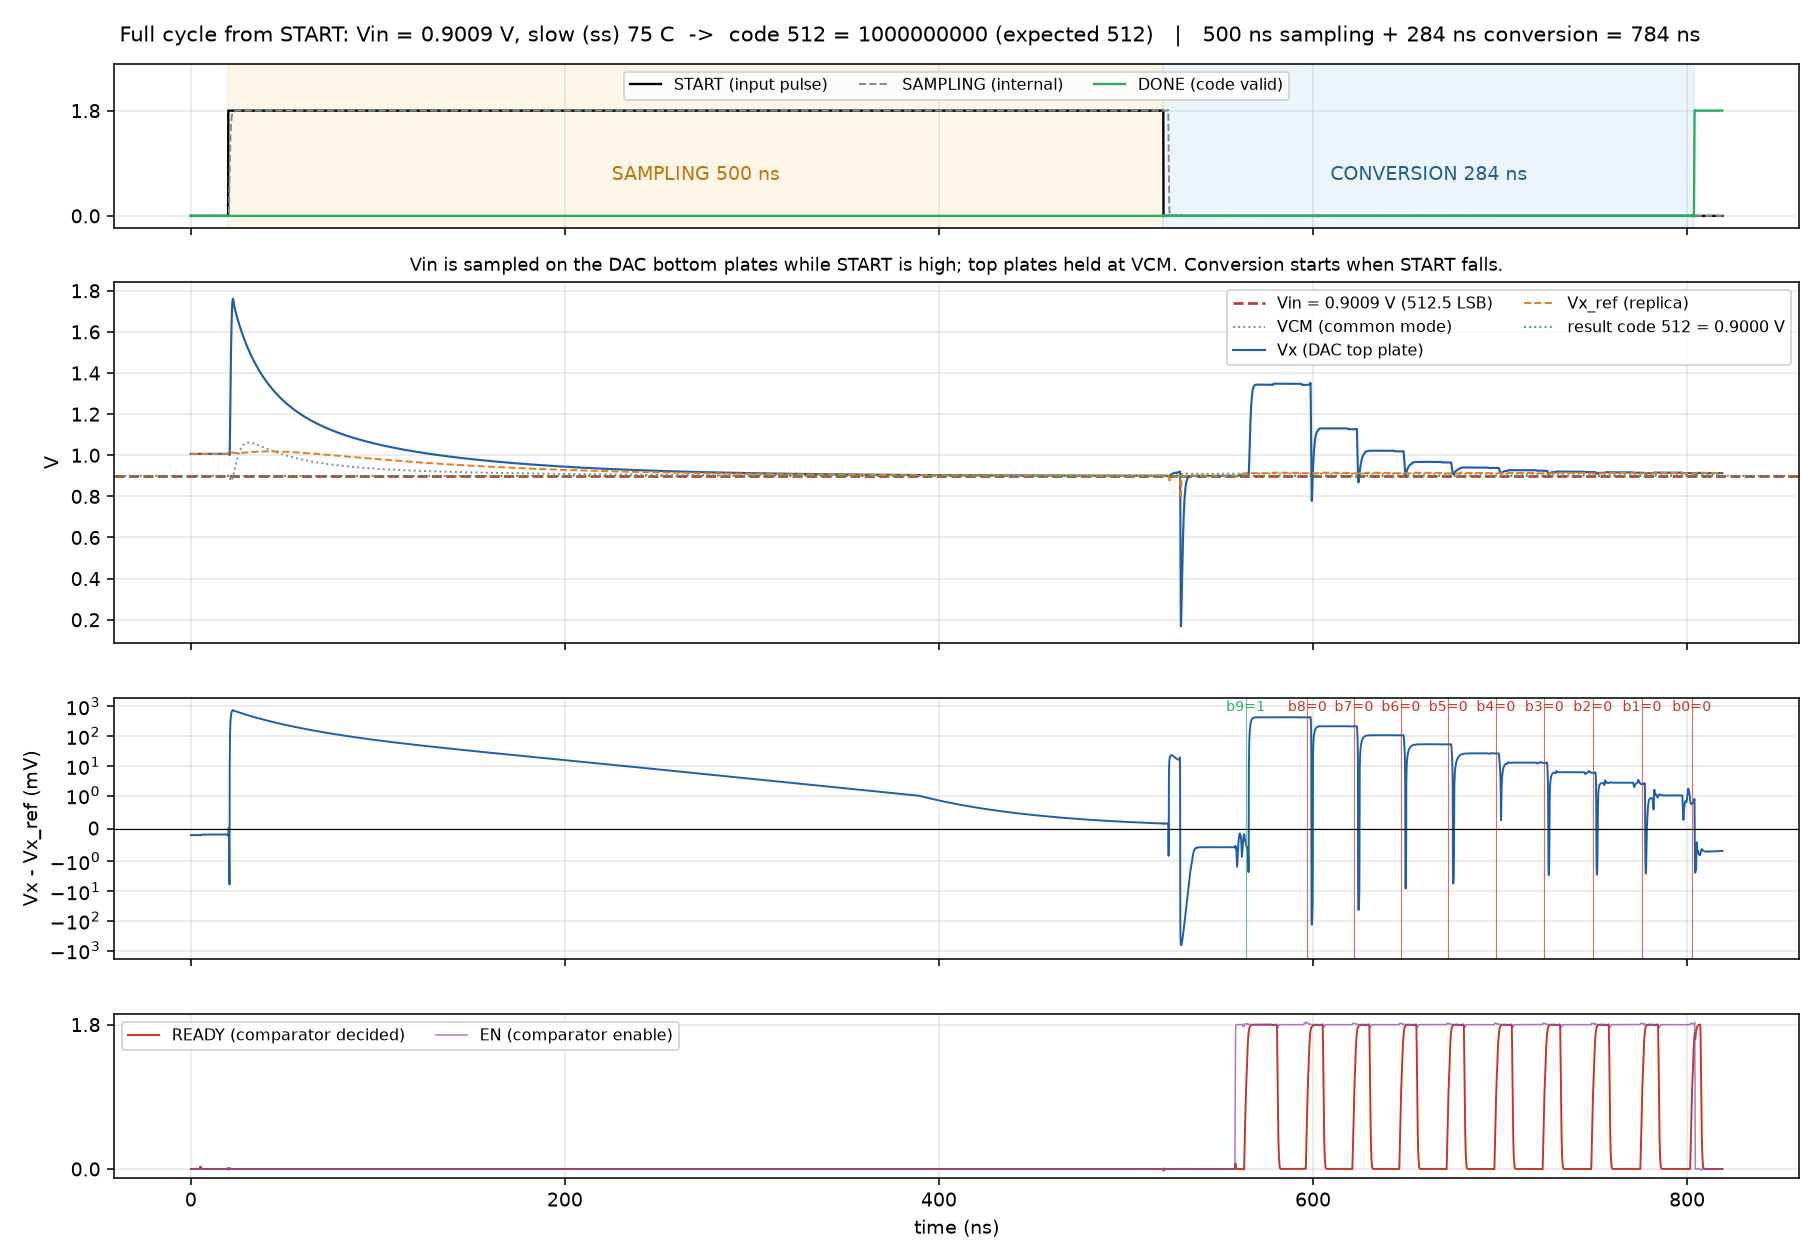
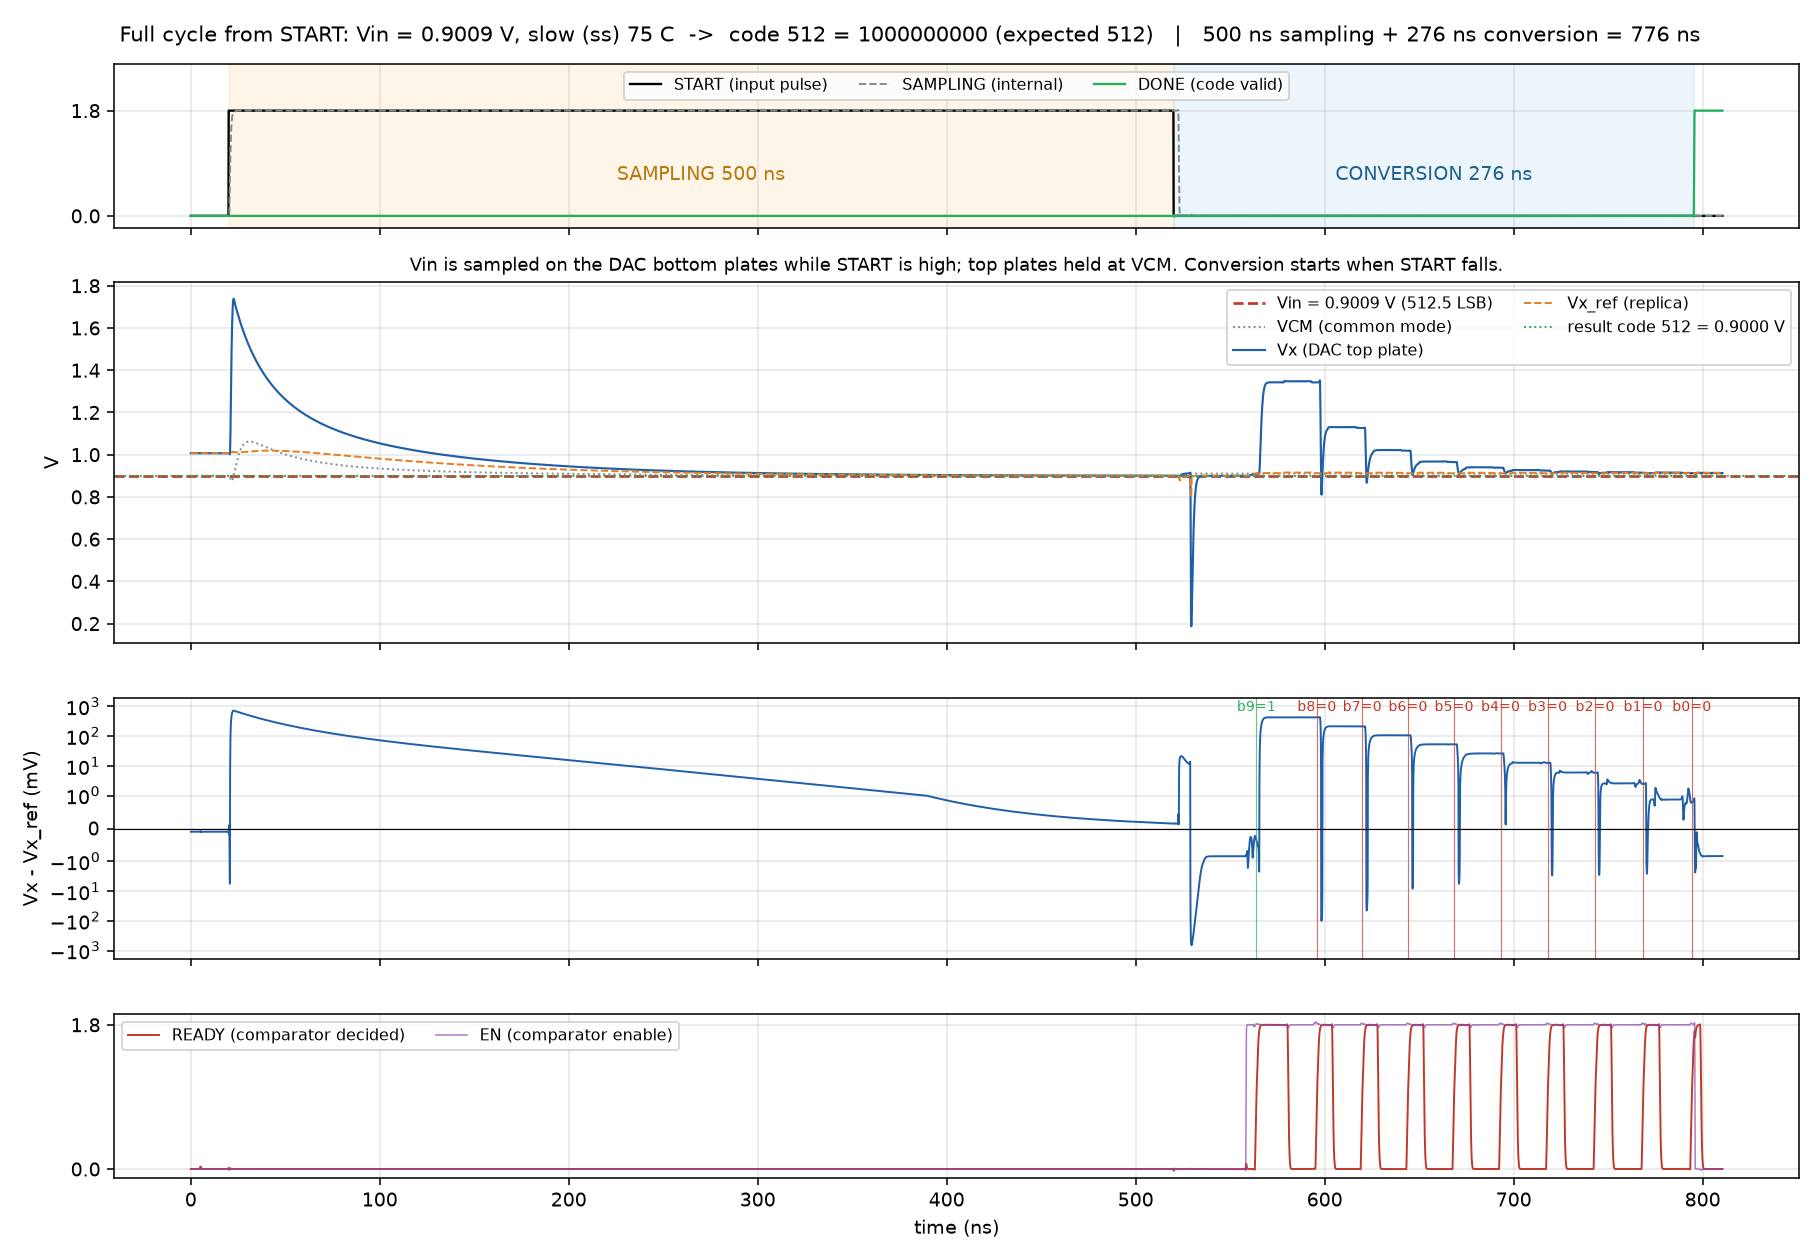
Product page: complete ADC post-layout specs, verification matrix, layout, conversion energy, comparison

diff --git a/README.md b/README.md
@@ -7,62 +7,66 @@
 ![PDK](https://img.shields.io/badge/PDK-sky130A-0f172a?style=flat-square&labelColor=0f172a&color=22d3ee)
 ![ADC](https://img.shields.io/badge/SAR%20ADC-10%20bit%20%C2%B7%201%20MS%2Fs-0f172a?style=flat-square&labelColor=0f172a&color=22d3ee)
 ![Layout](https://img.shields.io/badge/layout-DRC%20%2F%20LVS%20clean-0f172a?style=flat-square&labelColor=0f172a&color=22d3ee)
-![Status](https://img.shields.io/badge/full%20ADC-in%20layout%2C%20RC%20verified-0f172a?style=flat-square&labelColor=0f172a&color=64748b)
+![Verified](https://img.shields.io/badge/verified-post--layout%2C%20all%20corners-0f172a?style=flat-square&labelColor=0f172a&color=22d3ee)
 
 </div>
 
 ---
 
-## The idea
+## The product
 
-A conventional ADC samples and burns power whether or not the signal does anything. ANALOGIC does not. It **sleeps until something happens**, wakes itself, runs the conversion on a **clock it generates itself**, then goes back to sleep. No clock tree, almost no idle power.
+ANALOGIC is a **10-bit, 1 MS/s, event-driven SAR ADC** in SkyWater sky130, taken from schematic to a complete, DRC/LVS-clean layout and verified **post-layout, at transistor level, across process corners and temperature**.
 
-This fits any application where the signal is mostly quiet: neural recording, vibration monitoring, event-based imaging, sensor nodes.
+It **sleeps until something happens**, wakes on a single START pulse, runs the conversion on a **clock it generates itself**, then goes back to sleep. No clock tree. It fits any application where the signal is mostly quiet: neural recording, vibration monitoring, event-based imaging, sensor nodes.
 
 <div align="center">
 <img src="img/architecture.svg" alt="ANALOGIC architecture" width="100%">
 </div>
 
-## Highlights
+## What makes it different
 
 | | |
 |---|---|
-| **Energy per conversion** | **36 pJ**, about 13x lower than an open-source sky130 SAR from the literature |
-| **Idle power** | **24 nW** at 25 °C, 65 nW at 75 °C |
-| **Comparator** | Asynchronous (self-timed, READY output), rail-to-rail input, **σ 1.6 – 2.8 mV** offset with no calibration, layout DRC/LVS clean |
-| **Accuracy** | 30 … 1770 mV input, across tt/ss/ff and 75 °C: **−1 … 0 LSB** |
-| **CDAC linearity** | Shielded 10-bit layout, RC-extracted: **DNL −0.20 LSB, INL 0.12 LSB**, DRC clean, LVS matched |
-| **Self-timed** | One START pulse, 10 bits resolved asynchronously in 123 ns |
-| **Smart modes** | Early stop (6 bit, 26 pJ) and single-decision window check (9.7 pJ) |
-| **Down to layout** | Complete ADC (analog core + SAR logic) in one layout: **DRC 0, LVS matched**, extracted conversions within 1 LSB at slow and fast corners, **1 MS/s at ss 75 °C** |
+| ⚡ **No clock at all** | The comparator times the whole conversion with its own **READY** pulse. No external clock, no internal oscillator, no clock tree: each bit takes exactly as long as the decision needs |
+| 💤 **Event-driven** | One START pulse samples, converts and puts the ADC back to sleep. Between events there is nothing switching, an idle mode conventional SAR ADCs do not have |
+| ↔ **Rail-to-rail StrongARM comparator** | Works from 30 mV to 1.79 V common mode (and beyond both rails) with **σ 1.6–2.8 mV offset and no calibration**, where a classic StrongARM works around one fixed level |
+| 🪞 **Replica CDAC** | A matched replica array sets the comparator's reference, so the comparator always decides near mid-supply and common-mode disturbances cancel instead of turning into error |
+| 🛡 **Shielded CDAC layout** | A grounded shield between bit lines and top plate keeps the 10-bit array linear: **DNL −0.20 LSB, INL 0.12 LSB** after extraction |
+| ✋ **Clean STOP** | The SAR logic can freeze the self-timed loop instantly with zero fight current, so a conversion can be cut short safely |
+| 🔬 **Verified like silicon is coming** | The complete ADC, analog core and synthesized logic, is DRC/LVS clean and simulated at transistor level with extracted parasitics at every corner: **within 1 LSB, 1 MS/s, 0.084 mm²** |
+| 🔓 **Open PDK, open tools** | SkyWater sky130 and a fully open-source flow from schematic to GDS |
 
-<div align="center">
-<img src="img/guc_olay_hizi.png" width="760" alt="Power vs event rate">
-<br><sub><b>Average power scales with the event rate:</b> at a few events per second the ADC stays near 25 nW</sub>
-</div>
+## Key specifications
 
-<div align="center">
-<img src="img/sar_donusum.png" width="760" alt="SAR conversion">
-<br><sub><b>Asynchronous 10-bit conversion:</b> every READY pulse resolves one bit</sub>
-</div>
+All values are from **transistor-level simulation of the complete ADC with extracted layout parasitics** (sky130A, 1.8 V), unless noted.
+
+| Parameter | Value |
+|---|---|
+| Resolution | 10 bit |
+| Sample rate | **1 MS/s** at tt 25 °C, ss 75 °C and ff 25 °C |
+| Conversion time (after sampling) | **191 ns** tt · 276–280 ns ss 75 °C · 141–143 ns ff |
+| Accuracy, full RC-extracted ADC | Bottom, mid and top of range at all three corners: every code **within 1 LSB** |
+| Input range | Rail-to-rail (tested 30 mV … 1.75 V) |
+| Conversion energy, tt (10 bit decisions) | **94.5 pJ**: comparator 38.5, DAC drivers 34.5, SAR logic 21.5 |
+| Idle | Event-driven sleep: no switching between events |
+| Area | **316 x 267 µm = 0.084 mm²**, complete ADC |
+| Physical verification | **DRC 0, LVS matched** for the complete ADC and every block |
+| Clocking | None external: asynchronous comparator times every bit with its own READY pulse |
 
 ---
 
 ## The complete ADC, end to end
 
-The whole converter is in one layout: signal CDAC, **replica CDAC**, bit drivers and input switches, common-mode generators, the asynchronous comparator **and the SAR logic**. It is RC-extracted and simulated at transistor level, from the START pulse to the final code.
+The whole converter is in one layout: signal CDAC, **replica CDAC**, bit drivers and input switches, common-mode generators, the asynchronous comparator **and the synthesized SAR logic**. It is RC-extracted and simulated at transistor level, from the START pulse to the final code.
 
-| | Result |
-|---|---|
-| Physical verification | **DRC 0, LVS matched** for the complete ADC |
-| Full conversion, extracted parasitics | Bottom, mid and top of the range at **slow 75 °C** and **fast 25 °C**: every code **within 1 LSB** |
-| Speed, worst corner (ss, 75 °C) | 500 ns sampling + **284–288 ns** conversion = **788 ns** → **1 MS/s** holds at the slow corner |
-| Speed, fast corner (ff, 25 °C) | **147–149 ns** conversion |
-| Sampling accuracy | Top plate settles within **0.15 mV** by the end of sampling |
+<div align="center">
+<img src="img/adc_top_layout.png" width="900" alt="Complete ADC layout">
+<br><sub><b>The complete ADC in sky130A, 316 x 267 µm:</b> signal and replica CDAC arrays, VCM generators across the top, drivers and switches below, synthesized SAR logic in the center column</sub>
+</div>
 
 <div align="center">
 <img src="img/adc_full_cycle.png" width="900" alt="Full ADC cycle from START">
-<br><sub><b>One full cycle from START (ss, 75 °C):</b> the input is sampled on the DAC bottom plates while START is high, then the comparator's own READY pulses walk through the 10 bits. Code 512, as expected</sub>
+<br><sub><b>One full cycle from START at the slow corner (ss, 75 °C):</b> the input is sampled on the DAC bottom plates while START is high, then the comparator's own READY pulses walk through the 10 bits. Code 512, as expected</sub>
 </div>
 
 <div align="center">
@@ -72,8 +76,57 @@ The whole converter is in one layout: signal CDAC, **replica CDAC**, bit drivers
 
 <div align="center">
 <img src="img/adc_corners.png" width="900" alt="Corner results">
-<br><sub><b>Corner results</b> on the extracted layout</sub>
+<br><sub><b>Corner results</b> on the extracted layout: tt, ss 75 °C, ff</sub>
 </div>
+
+---
+
+## Power
+
+Measured on the RC-extracted complete ADC (tt, 25 °C), each supply on its own pin.
+
+| Supply pin | Block | Conversion energy (10 decisions) |
+|---|---|---|
+| VDDK | Comparator | **38.5 pJ** |
+| VDD | DAC drivers and references | **34.5 pJ** |
+| VDDD | SAR logic | **21.5 pJ** |
+| | **Total, conversion phase** | **94.5 pJ** |
+
+Sampling-phase energy and the full per-sample and idle figures are being characterized over back-to-back conversions and will be added here.
+
+---
+
+## Verification
+
+Every number on this page comes from a test like the ones below. Nothing is quoted from schematic-only simulation unless it says so.
+
+| Level | Test | Result |
+|---|---|---|
+| **Complete ADC** | DRC (Magic) | **0 errors** |
+| | LVS (netgen), analog core + SAR logic | **Circuits match uniquely** |
+| | Full conversion, RC-extracted, tt / ss 75 °C / ff × 3 input levels | **9 / 9 within 1 LSB** |
+| | Sampling accuracy at end of 500 ns sampling | **≤ 0.15 mV** |
+| | Throughput, worst corner | **780 ns per sample, 1 MS/s with margin** |
+| | Supply power, per supply pin, extracted | see Power |
+| | Connectivity check of every extracted netlist before simulation | **pass** |
+| **SAR logic** | RTL simulation | **11 / 11 conversions correct** |
+| | Gate-level, after synthesis and after place-and-route | **11 / 11 correct** |
+| | Static timing | **met**, positive slack |
+| | Place-and-route DRC, power connections, LVS | **0 violations, 0 errors, match** |
+| **Comparator** | Monte Carlo offset, extracted layout | **σ 2.4 / 1.6 / 2.8 mV** at VCM 30 / 900 / 1790 mV |
+| | Decisions on extracted layout, ±1 mV, all corners | **720 / 720 correct** |
+| | STOP function, extracted layout | CLK held **< 0.58 mV**, decisions correct |
+| | DRC / LVS | **clean / match** |
+| **CDAC** | Static linearity, RC-extracted | **DNL −0.20 LSB, INL 0.12 LSB** |
+| | Bit settling to 0.5 LSB, RC-extracted | **6.2 / 8.1 / 5.3 ns** (tt / ss 75 °C / ff) |
+| | DRC (Magic + KLayout) / LVS | **0 / match** |
+| **VCM generator** | 100 consecutive samples under 10-bit load | **no drift** |
+| | Extracted vs schematic | **match** |
+| | DRC / LVS | **0 / match** |
+| **Switches** | On-resistance across corners, leakage at ff 75 °C | see System blocks |
+| | DRC / LVS, layout vs schematic settling | **0 / match / equal** |
+
+**Flow for every block:** schematic simulation (tt / ss / ff, 25 °C and 75 °C) → layout in Magic, mostly script-generated → DRC and LVS → parasitic extraction (R and C) → same testbench on the extracted netlist → Monte Carlo where matching matters → integration one level up.
 
 ---
 
@@ -89,23 +142,18 @@ Most StrongARM comparators only work near one common-mode voltage. Ours works ac
 
 | Metric | Result |
 |---|---|
-| Input common mode | **Rail-to-rail and beyond.** Characterized: 30 … 1790 mV (range was not swept past this window) |
+| Input common mode | **Rail-to-rail and beyond.** Characterized: 30 … 1790 mV |
 | Offset (extracted layout, Monte Carlo) | **σ 2.4 / 1.6 / 2.8 mV** at VCM 30 / 900 / 1790 mV, **no calibration** |
 | Decision time (CLK → READY) | **4.1 / 3.0 / 2.4 ns** at VCM 30 / 900 / 1790 mV |
 | Self-clocked loop (layout netlist, tt, 25 °C) | CLK → READY 3.7 / 2.9 / 2.3 ns, loop period 15.5 – 16.6 ns |
 | Verification | **720 / 720** correct decisions on extracted layout (±1 mV, all corners) |
 | Physical | **DRC clean, LVS matched**, 25.7 x 58.4 µm |
-| Topology | StrongARM latch with a double-tail-style PMOS pre-stage and a 4/1 PMOS tail |
 
 **STOP version:** the SAR logic can freeze the self-timed loop cleanly, with no fight current. Layout DRC 0, LVS matched. On the RC-extracted layout (tt): during STOP, CLK stays below **0.58 mV** and the cell draws **5.4 µA**, and decisions before and after STOP are correct.
-
-**Why it matters:** the rail-to-rail range lets the ADC converge around mid-supply (0.9 V) while the input swings the full range, and the built-in READY output turns the comparator into its own clock generator.
 
 ---
 
 ## System blocks
-
-Each block was verified on its own, then added to the next level. Design files are not published; this page shows what each block does and how it performs.
 
 ### Capacitor DAC (CDAC)
 Holds the sampled input and tries one bit per step: the SAR's balance.
@@ -118,8 +166,6 @@ Holds the sampled input and tries one bit per step: the SAR's balance.
 | Layout | 128.6 x 177.3 µm, **DRC 0** (Magic + KLayout), **LVS matched** |
 
 ### Sampling and analog switches
-Takes the input onto the capacitors and ties the plates to the references.
-
 Bottom-plate sampling through per-bit input switches, top plate held at VCM. Two transmission-gate cells, both with layout DRC 0, LVS matched and layout = schematic:
 
 | Switch | Settling to 0.5 LSB (2 pF) | Peak Ron tt / ss / ff | Off leakage (worst) |
@@ -128,12 +174,11 @@ Bottom-plate sampling through per-bit input switches, top plate held at VCM. Two
 | **Low-Vt** | **13.6 ns** | **1.6k / 2.4k / 1.2k Ω** | **0.31 nA** (ff, 75 °C) |
 
 ### Common-mode reference (VDD/2)
-Sets the comparison point; passive and very low current.
+Sets the comparison point.
 
 | Metric | Result |
 |---|---|
 | Output | **0.900 V** (VDD/2, ratiometric to supply) |
-| Current / power | ~20 nA / ~36 nW (weak branch) |
 | 10-bit sampling load | Always-on weak branch plus a strong branch that engages only during sampling. **No drift over 100 consecutive samples** |
 | Layout | 24.7 x 49.9 µm, **DRC 0, LVS matched**, RC-extracted result matches the schematic |
 
@@ -142,41 +187,26 @@ Writes the bits, triggers and stops the comparator, generates its own timing.
 
 | Metric | Result |
 |---|---|
-| Conversion | 10 bit from one START pulse, **123 ns** |
-| Modes | Early stop (6 bit, 26 pJ), single-decision window check (9.7 pJ) |
-| Safety | Timeout protection, returns to sleep by itself when done |
-
----
-
-## How it was verified
-
-Every block follows the same flow before it is used one level up:
-
-1. **Schematic simulation** (xschem + ngspice) at tt / ss / ff, 25 °C and 75 °C
-2. **Layout** in Magic, mostly script-generated so it can be rebuilt after a change
-3. **DRC** (Magic, plus KLayout for the CDAC and STOP comparator) and **LVS** (netgen)
-4. **Parasitic extraction** (R and C) and the same testbench re-run on the extracted netlist
-5. **Monte Carlo** where matching matters (comparator offset), with a small sample set
-6. **System test** on the complete extracted ADC at slow and fast corners, with a connectivity check script that runs before every simulation
+| Implementation | Verilog, synthesized and placed with sky130 standard cells, inside the ADC layout |
+| Conversion | 10 bits from one START pulse, timed by the comparator's READY |
+| Verification | RTL, gate-level and post-route gate-level: 11 / 11 conversions correct; timing met |
 
 ---
 
 ## How we compare
 
-Our numbers are **simulation** (sky130, 1.8 V, tt, 25 °C; comparator numbers from extracted layout). Competitor numbers come from published work; names are withheld.
+Our numbers are **post-layout simulation** of the complete ADC (sky130, 1.8 V, tt, 25 °C unless noted). Competitor numbers come from published work; names are withheld.
 
 **SAR ADC**
 
-| | **ANALOGIC (SAR v3, sim)** | A: open-source sky130 SAR | B: 180 nm SAR (silicon) |
+| | **ANALOGIC (post-layout sim)** | A: open-source sky130 SAR | B: 180 nm SAR (silicon) |
 |---|---|---|---|
 | Technology / supply | sky130, 1.8 V | sky130, 1.8 V | 180 nm, 1.8 V |
 | Resolution | 10 bit | 12 bit (non-binary) | 12 bit |
-| Sample rate | 1 MS/s (123 ns conversion) | 1.44 MS/s | 2 MS/s |
-| Power at full rate | **36 µW** | 703 µW | 183 µW |
-| Energy per conversion | **36 pJ** | ~488 pJ | ~92 pJ |
-| Walden FoM | ~43 fJ/step (assuming ENOB 9.7) | not published | 48.6 fJ/step (measured) |
-| Idle power (waiting for events) | **24 nW** (65 nW at 75 °C) | runs continuously | runs continuously |
-| Area | not yet | 0.175 mm² | 0.36 mm² |
+| Sample rate | **1 MS/s at every corner** | 1.44 MS/s | 2 MS/s |
+| Idle (waiting for events) | **sleep mode, no switching** | runs continuously | runs continuously |
+| Area | **0.084 mm²** | 0.175 mm² | 0.36 mm² |
+| Clock | none, self-timed | external | external |
 
 **Comparator**
 
@@ -187,30 +217,28 @@ Our numbers are **simulation** (sky130, 1.8 V, tt, 25 °C; comparator numbers fr
 | Decision time | 2.4 – 4.1 ns (CLK → READY) | 63 – 136 ps |
 | Supply | 1.8 V | 1.2 V |
 
-**In short:** thanks to event-driven operation, idle power is about a thousand times lower than the others and energy per conversion is much lower. Competitor B is measured silicon; ours is simulation so far, with the complete ADC already in layout and ENOB verification next.
+**In short:** the smallest area of the three, no clock to distribute, and an idle mode the others do not have. Competitor B is measured silicon; ours is post-layout simulation of the complete ADC, with ENOB verification next.
 
 ---
 
 ## Roadmap
 
-- [x] Rail-to-rail StrongARM comparator: layout, DRC/LVS, Monte Carlo
-- [x] Event-driven 10-bit SAR reference design: 36 pJ, 24 nW idle
-- [x] CDAC, sampling switches and common-mode reference verified block by block
-- [x] CDAC (10-bit) and analog switch layouts: DRC clean, LVS matched, RC-extracted verification
-- [x] Common-mode reference v3: layout, multi-sample verification under 10-bit load
-- [x] Shielded 10-bit CDAC: DNL −0.20 LSB, INL 0.12 LSB (RC-extracted)
-- [x] Full analog core layout (CDAC + replica, drivers, VCM, comparator): DRC 0, LVS matched
-- [x] Comparator with STOP input: layout DRC 0, LVS matched, extracted simulation
-- [x] SAR logic placed with the analog core: complete ADC DRC 0, LVS matched
-- [x] Transistor-level conversions on the extracted ADC: within 1 LSB, 1 MS/s at ss 75 °C
-- [ ] Desktop demo: 8-bit R-2R SAR on a Nexys A7 FPGA
+- [x] Rail-to-rail asynchronous StrongARM comparator: layout, DRC/LVS, Monte Carlo
+- [x] Shielded 10-bit CDAC, switches and common-mode reference: layout, DRC/LVS, RC-extracted verification
+- [x] Comparator with STOP input
+- [x] SAR logic: RTL, synthesis, place-and-route, gate-level verification
+- [x] Complete ADC layout: DRC 0, LVS matched, 0.084 mm²
+- [x] Transistor-level conversions on the extracted ADC: within 1 LSB, 1 MS/s at every corner
+- [x] Post-layout conversion energy per supply
+- [ ] Full per-sample and idle power over back-to-back conversions
 - [ ] ENOB verification by FFT
+- [ ] Desktop demo: 8-bit R-2R SAR on a Nexys A7 FPGA
 - [ ] Pixel/channel-level event detection integration
 
 ## Tools
 
-SkyWater **sky130A** · xschem · ngspice · magic · netgen · KLayout · IIC-OSIC-TOOLS
+SkyWater **sky130A** · xschem · ngspice · Magic · netgen · KLayout · Yosys · OpenROAD · IIC-OSIC-TOOLS
 
 ---
 
-<div align="center"><sub>Design files are not open source for now. Get in touch for collaboration.</sub></div>
+<div align="center"><sub>Design files are not open source. Get in touch for collaboration.</sub></div>
